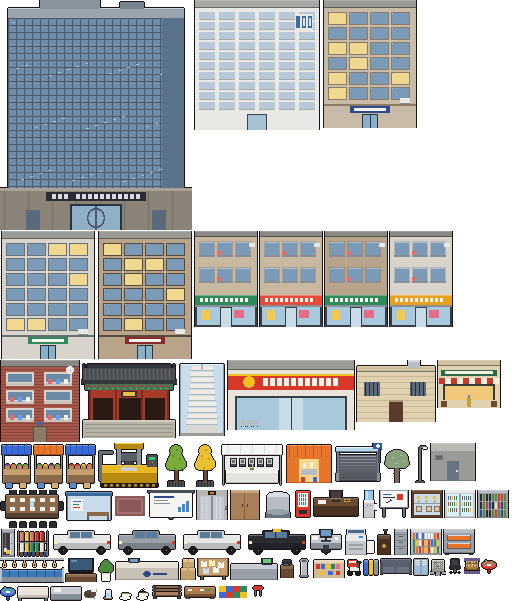
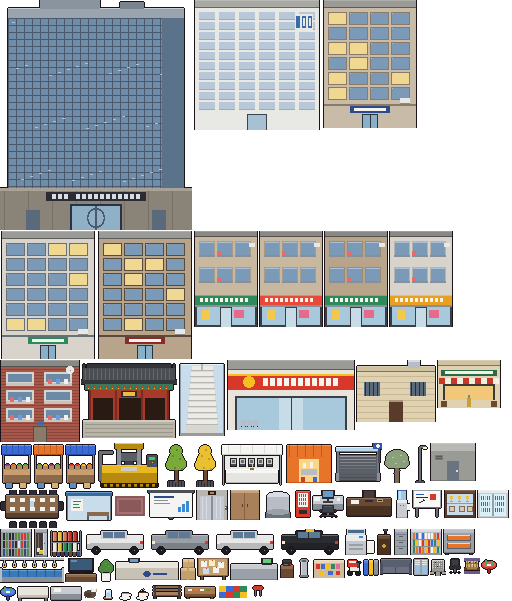
Seoul kit: furn.office_desk's chair redrawn from behind (a wide padded back, armrests, a castor base wider than the seat); the old tapering shape read as a down arrow (apo110: 'what are the arrows at the desks?'). Sprite 2 px taller. Cost $0
Claude-Session: https://claude.ai/code/session_01PgFWANZ31jD9jaHVPjMEnq

Changed region(s): [[0.0, 0.8087, 1.0, 0.9285]]

diff --git a/tools/draw_seoul.py b/tools/draw_seoul.py
@@ -534,12 +534,18 @@ def streetlight():   # a modern street light: a grey pole, an arm, a lamp
 # =====================================================================================================================
 # office and home furniture (2 px of "top" per tile of depth: the old kits' furniture is low and wide)
 def office_desk():   # a grey desk, a monitor and keyboard, papers, a mug, a black chair pulled up
-    g = Grid(2 * T, 26)
+    g = Grid(2 * T, 28)
     box(g, 1, 6, 30, 8, 6, "#c8ccd2", "#8a9098")
     g.rect(10, 0, 12, 9, "#2a2c32"); g.rect(11, 1, 10, 6, "#6a9ac8"); g.rect(15, 9, 2, 2, "#2a2c32")   # monitor
     g.rect(11, 11, 10, 2, "#3a3c42")                                                                     # keyboard
     g.rect(2, 7, 6, 4, "#f4f2ec"); g.rect(25, 8, 3, 3, "#f4f2ec")                                        # papers, a mug
-    g.rect(12, 20, 8, 3, "#2a2c32"); g.rect(13, 16, 6, 4, "#3a3c42"); g.rect(15, 23, 2, 2, "#2a2c32")   # the chair
+    # the chair pulled up, seen from behind: a wide padded back, armrests, a five-castor base wider than the seat
+    g.rect(10, 15, 12, 8, "#2a2c32"); g.rect(11, 16, 10, 6, "#3e4048"); g.rect(12, 16, 8, 1, "#565a64")
+    g.rect(8, 19, 2, 3, "#2a2c32"); g.rect(22, 19, 2, 3, "#2a2c32")
+    g.rect(15, 23, 2, 2, "#6a6e78")
+    g.rect(9, 25, 14, 1, "#3a3c42")
+    for x in (8, 12, 19, 23):
+        g.rect(x, 26, 2, 1, "#1c1c20")
     return img(g)
 
 
